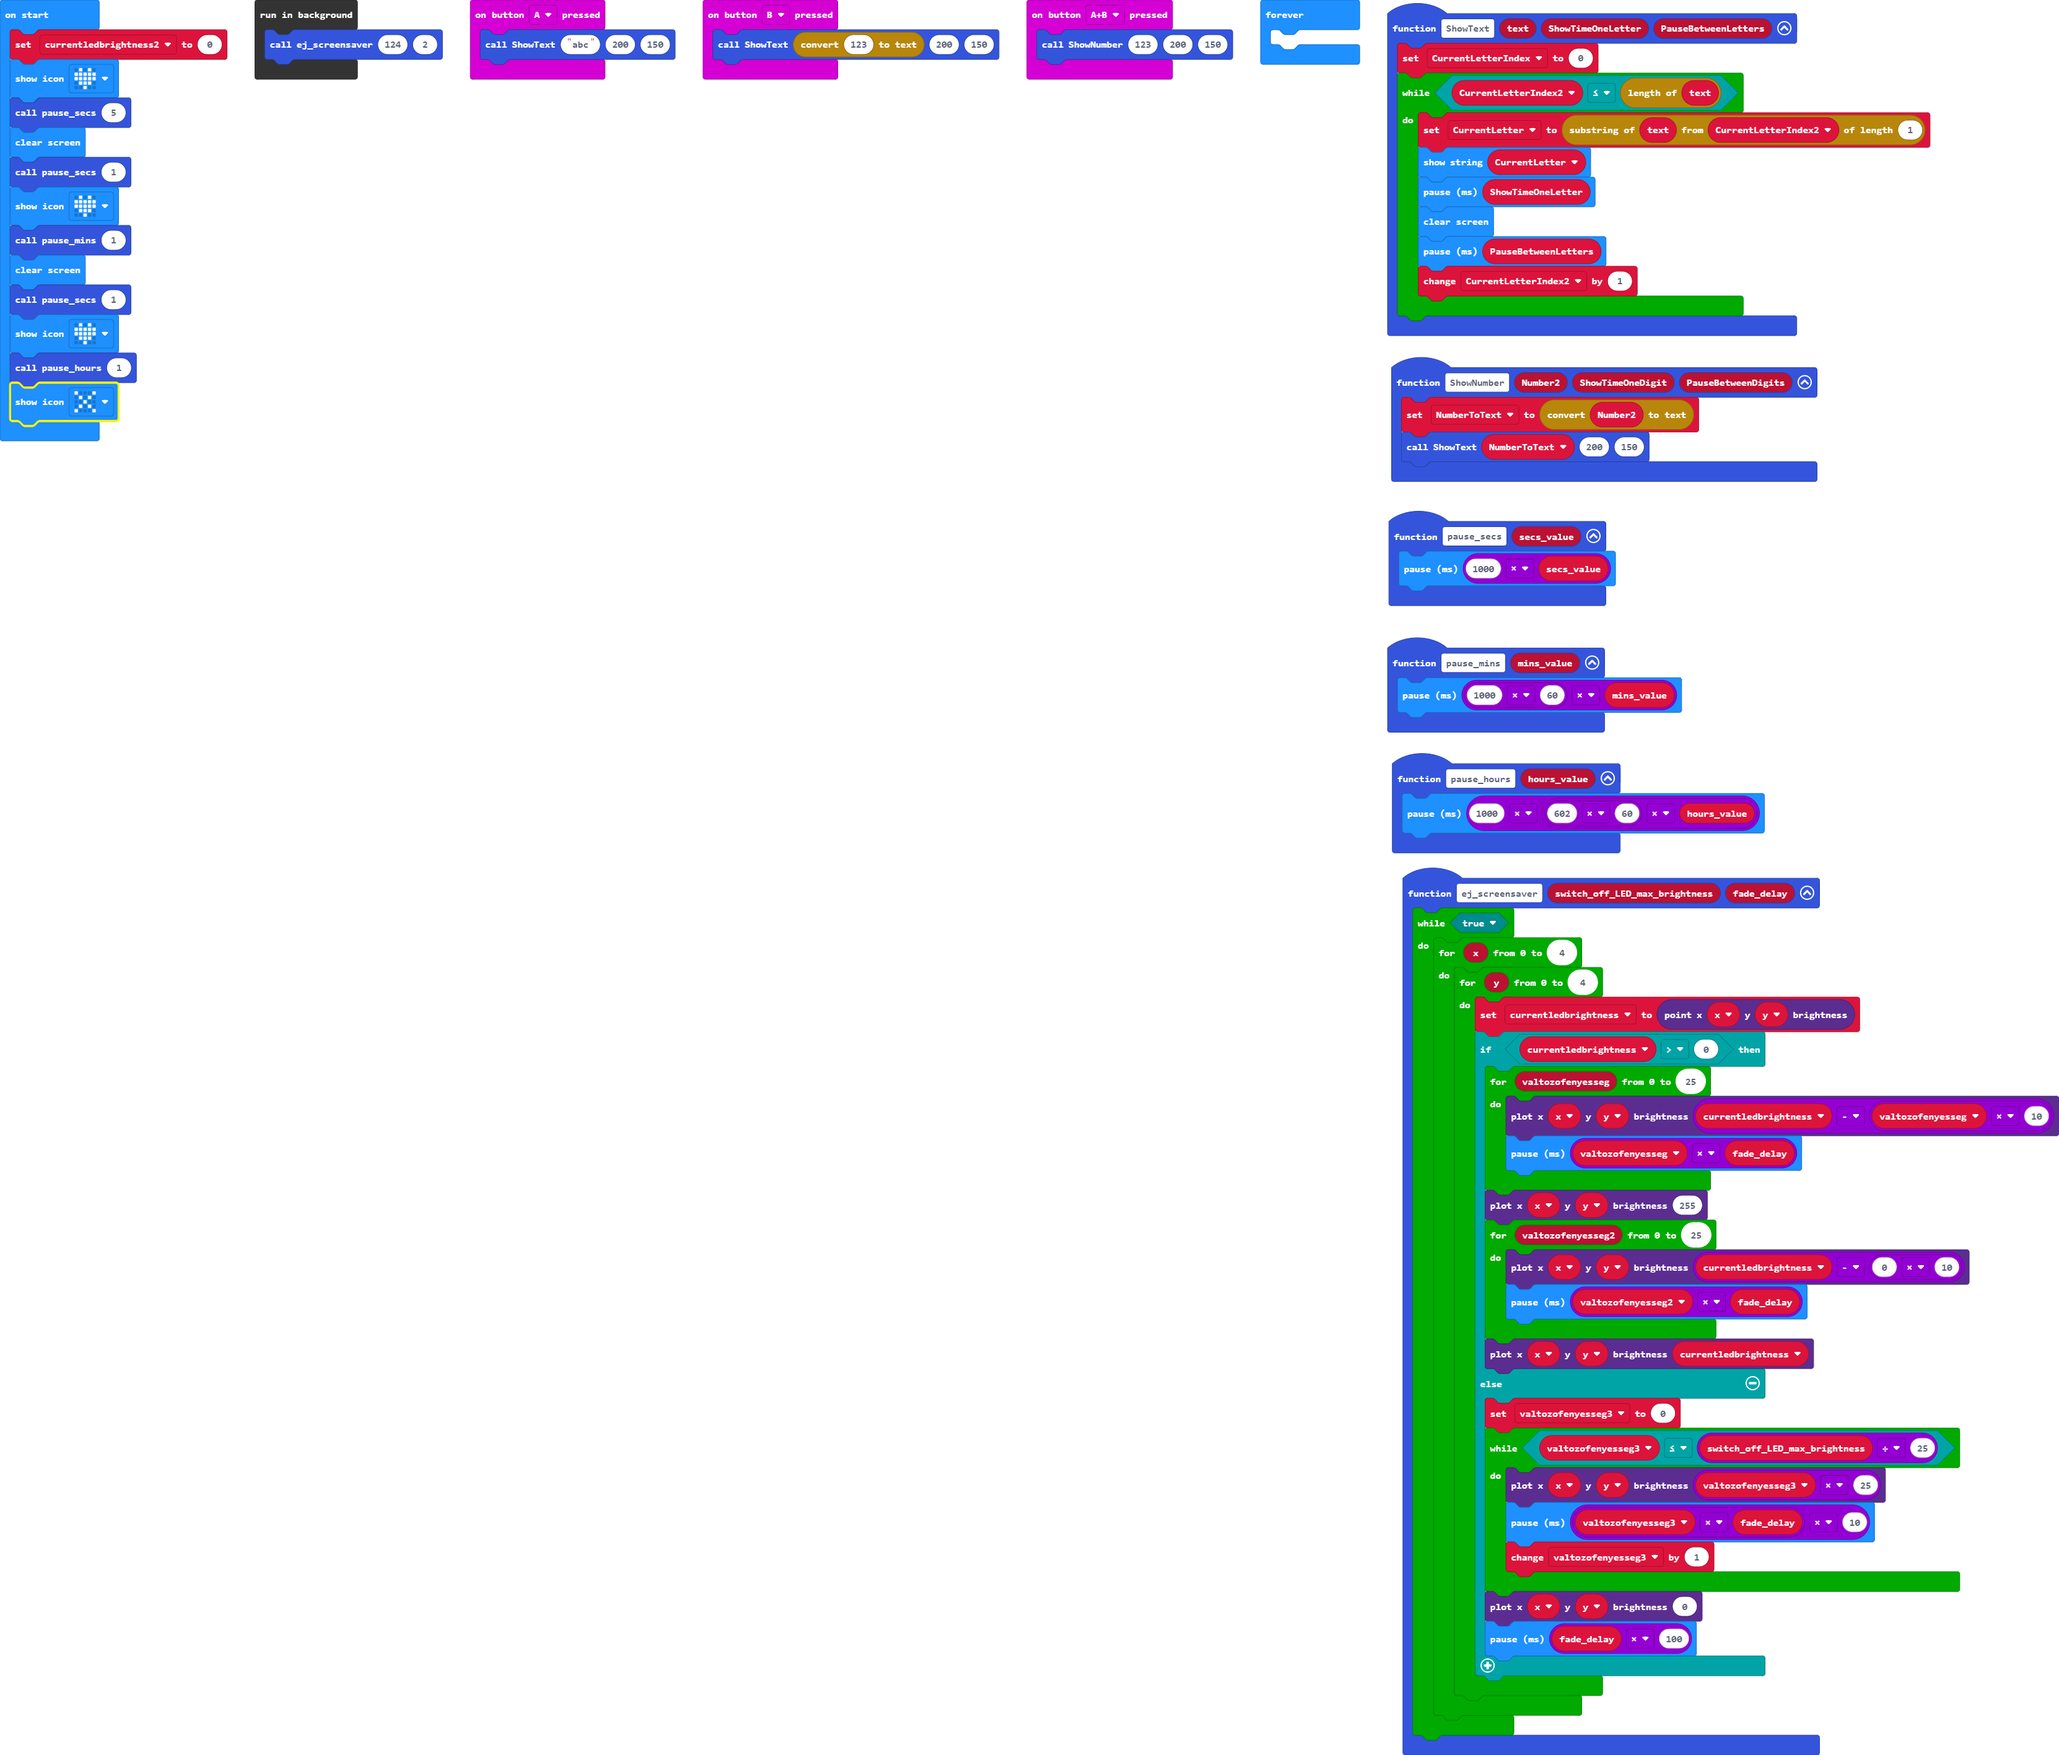
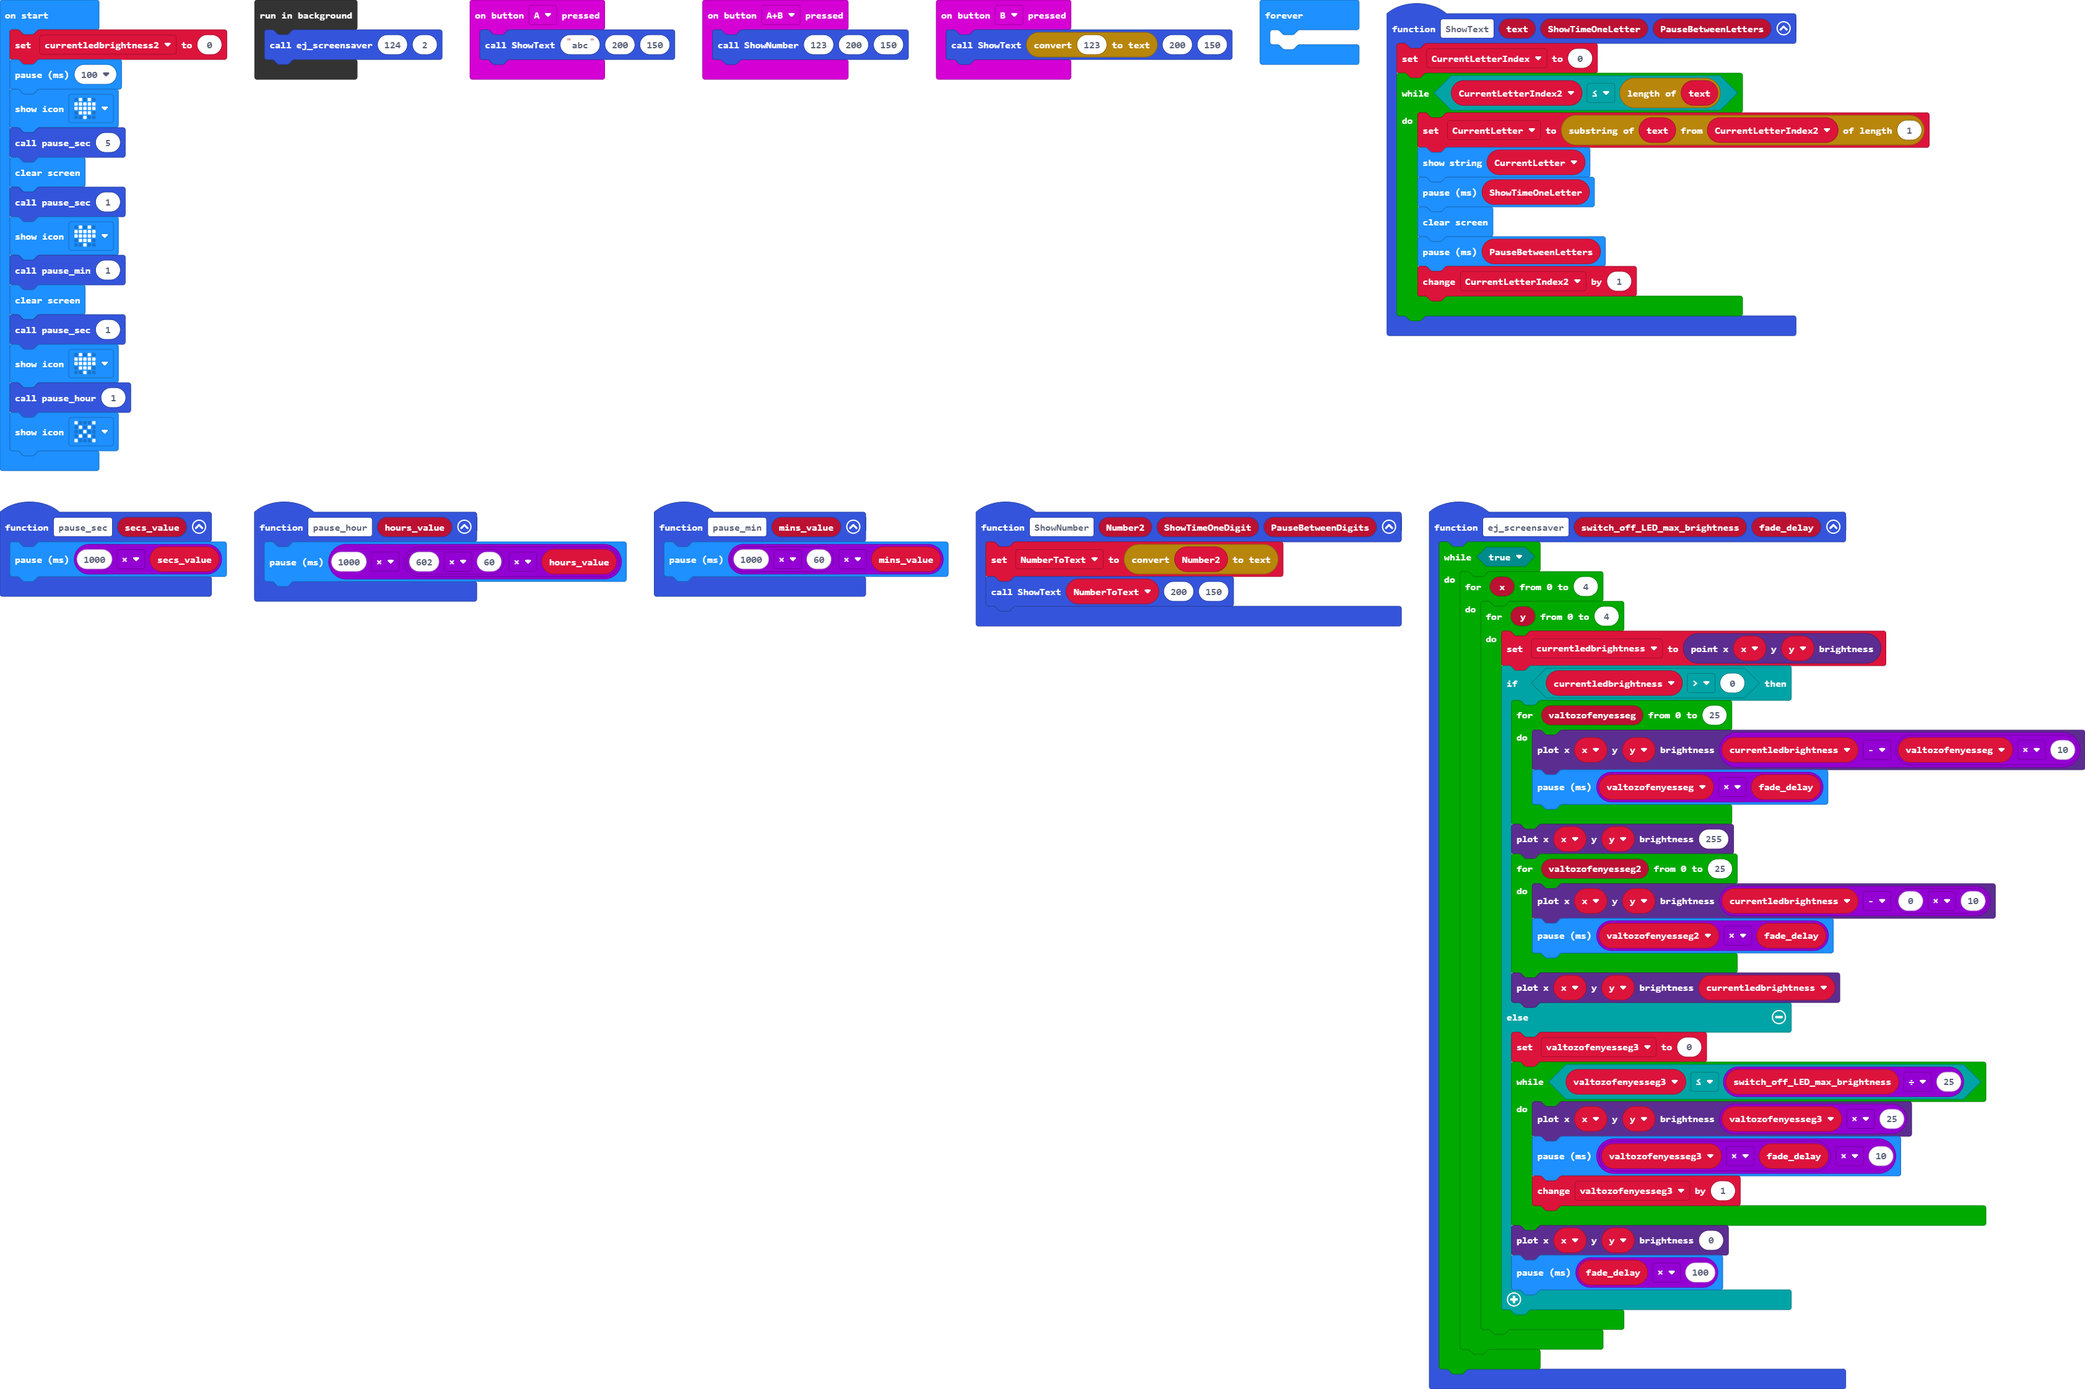
Update pxt.json, main.blocks, main.ts

Changed region(s): [[0.0, 0.0, 1.0, 1.0]]

diff --git a/main.ts b/main.ts
@@ -1,4 +1,7 @@
-function pause_hours (hours_value: number) {
+function pause_min (mins_value: number) {
+    basic.pause(1000 * 60 * mins_value)
+}
+function pause_hour (hours_value: number) {
     basic.pause(1000 * (602 * 60 * hours_value))
 }
 function ShowText (text: string, ShowTimeOneLetter: number, PauseBetweenLetters: number) {
@@ -55,10 +58,7 @@ function ShowNumber (Number2: number, ShowTimeOneDigit: number, PauseBetweenDigi
     NumberToText = convertToText(Number2)
     ShowText(NumberToText, 200, 150)
 }
-function pause_mins (mins_value: number) {
-    basic.pause(1000 * 60 * mins_value)
-}
-function pause_secs (secs_value: number) {
+function pause_sec (secs_value: number) {
     basic.pause(1000 * secs_value)
 }
 let NumberToText = ""
@@ -68,16 +68,17 @@ let CurrentLetter = ""
 let CurrentLetterIndex2 = 0
 let CurrentLetterIndex = 0
 let currentledbrightness2 = 0
+basic.pause(100)
 basic.showIcon(IconNames.Heart)
-pause_secs(5)
+pause_sec(5)
 basic.clearScreen()
-pause_secs(1)
+pause_sec(1)
 basic.showIcon(IconNames.Heart)
-pause_mins(1)
+pause_min(1)
 basic.clearScreen()
-pause_secs(1)
+pause_sec(1)
 basic.showIcon(IconNames.Heart)
-pause_hours(1)
+pause_hour(1)
 basic.showIcon(IconNames.No)
 basic.forever(function () {
 	
